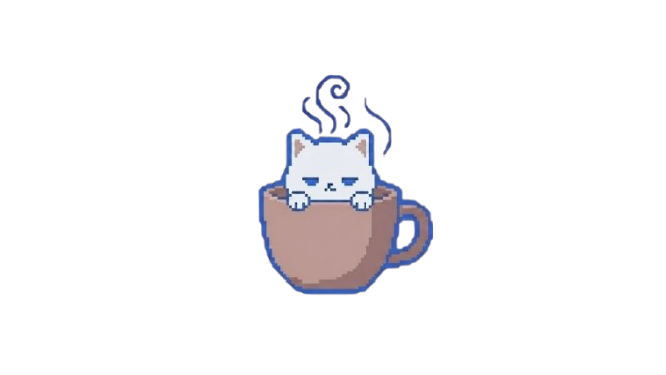
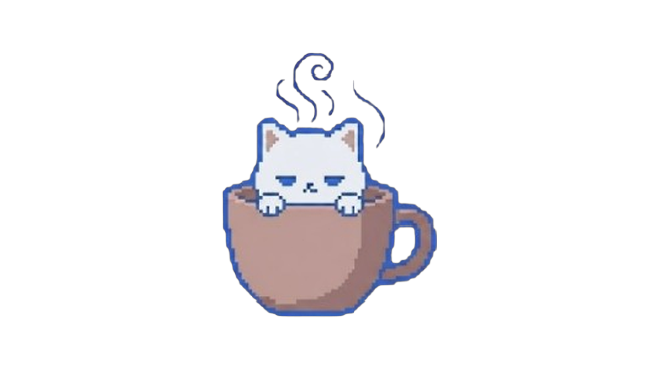
checkpoint: before sidebar toggle z-index/event delegation fix

Changed region(s): [[0.3303, 0.1173, 0.6607, 0.8507]]

diff --git a/scripts/SystemHealthReport/sample-report.html b/scripts/SystemHealthReport/sample-report.html
@@ -104,14 +104,18 @@ tbody tr:hover { background: rgba(255,255,255,0.03); }
 .theme-toggle {
     width: 40px; height: 40px; border-radius: 50%;
     background: var(--toolbar-bg); border: 2px solid var(--surface0);
-    color: var(--text); font-size: 22px; cursor: pointer;
-    line-height: 1; box-sizing: border-box;
+    color: var(--text); cursor: pointer;
+    box-sizing: border-box;
     flex-shrink: 0;
     display: flex; align-items: center; justify-content: center;
-    transition: background 0.3s, transform 0.2s;
     box-shadow: 0 2px 8px rgba(0,0,0,0.15);
+    transition: background 0.3s, transform 0.2s;
 }
 .theme-toggle:hover { transform: scale(1.1); }
+.theme-toggle .icon-moon { display: flex; align-items: center; justify-content: center; }
+.theme-toggle .icon-sun { display: none; align-items: center; justify-content: center; }
+[data-theme="latte"] .theme-toggle .icon-moon { display: none; }
+[data-theme="latte"] .theme-toggle .icon-sun { display: flex; }
 
 /* Sidebar */
 .sidebar {
@@ -119,17 +123,36 @@ tbody tr:hover { background: rgba(255,255,255,0.03); }
     width: 220px; background: color-mix(in srgb, var(--mantle) 95%, transparent);
     backdrop-filter: blur(10px);
     border-right: 1px solid var(--surface0);
-    padding: 0 0 24px;
+    padding: 0 0 56px;
     transform: translateX(-100%); transition: transform 0.35s cubic-bezier(0.4,0,0.2,1);
     overflow-y: auto;
 }
 .sidebar.open { transform: translateX(0); }
-.sidebar h3 {
-    position: sticky; top: 0; z-index: 1;
-    padding: 16px 16px 8px; margin: 0;
+.sidebar-header {
+    position: sticky; top: 0; z-index: 2;
+    display: flex; align-items: center;
+    padding: 0 8px 0 0;
     background: color-mix(in srgb, var(--mantle) 95%, transparent);
+    backdrop-filter: blur(10px);
+}
+.sidebar-header h3 {
+    flex: 1; padding: 16px 16px 8px; margin: 0;
     font-size: 12px; text-transform: uppercase; letter-spacing: 1px;
     color: var(--overlay0);
+}
+.sidebar-close {
+    width: 28px; height: 28px; border-radius: 50%;
+    border: none; background: transparent;
+    color: var(--overlay0); cursor: pointer;
+    display: flex; align-items: center; justify-content: center;
+    transition: background 0.2s, color 0.2s;
+    flex-shrink: 0;
+}
+.sidebar-close:hover {
+    background: var(--surface0); color: var(--text);
+}
+.sidebar-links {
+    padding: 0;
 }
 .sidebar a {
     display: block; padding: 8px 16px; border-radius: 6px;
@@ -142,8 +165,8 @@ tbody tr:hover { background: rgba(255,255,255,0.03); }
 .sidebar-toggle {
     width: 40px; height: 40px; border-radius: 50%;
     background: var(--toolbar-bg); border: 2px solid var(--surface0);
-    color: var(--text); font-size: 22px; cursor: pointer;
-    line-height: 1; box-sizing: border-box;
+    color: var(--text); cursor: pointer;
+    box-sizing: border-box;
     flex-shrink: 0;
     display: flex; align-items: center; justify-content: center;
     box-shadow: 0 2px 8px rgba(0,0,0,0.15);
@@ -178,7 +201,13 @@ tbody tr:hover { background: rgba(255,255,255,0.03); }
     <p class='intro-scroll'>&#9660; &#9660;</p>
 </div>
 <nav class="sidebar" id="sidebar">
-    <h3>Jump to</h3>
+    <div class="sidebar-header">
+        <h3>Jump to</h3>
+        <button class="sidebar-close" id="sidebarClose" aria-label="Close menu">
+            <svg viewBox="0 0 24 24" width="16" height="16"><line x1="18" y1="6" x2="6" y2="18" stroke="currentColor" stroke-width="2" stroke-linecap="round"/><line x1="6" y1="6" x2="18" y2="18" stroke="currentColor" stroke-width="2" stroke-linecap="round"/></svg>
+        </button>
+    </div>
+    <div class="sidebar-links">
     <a href='#sysinfo'>System Information</a>
     <a href='#cpu'>CPU</a>
     <a href='#gpu'>Graphics</a>
@@ -188,15 +217,25 @@ tbody tr:hover { background: rgba(255,255,255,0.03); }
     <a href='#processes'>Top Processes</a>
     <a href='#errors'>Recent Errors</a>
     <a href='#windows-update'>Windows Update</a>
+    </div>
     <div class="sidebar-fade"></div>
 </nav>
 <div class="header">
-<button class="sidebar-toggle" id="sidebarToggle" aria-label="Menu">☰</button>
+<button class="sidebar-toggle" id="sidebarToggle" aria-label="Menu">
+    <svg viewBox="0 0 24 24" width="22" height="22"><line x1="3" y1="6" x2="21" y2="6" stroke="currentColor" stroke-width="2" stroke-linecap="round"/><line x1="3" y1="12" x2="21" y2="12" stroke="currentColor" stroke-width="2" stroke-linecap="round"/><line x1="3" y1="18" x2="21" y2="18" stroke="currentColor" stroke-width="2" stroke-linecap="round"/></svg>
+</button>
 <div class="header-body">
 <h1>System Health Report</h1>
 <div class="subtitle">DESKTOP-SAMPLE &middot; 2026-07-06 16:30 &middot; Catppuccin Mocha</div>
 </div>
-<button class="theme-toggle" id="themeToggle" aria-label="Toggle theme">🌙</button>
+<button class="theme-toggle" id="themeToggle" aria-label="Toggle theme">
+    <span class="icon-moon">
+        <svg viewBox="0 0 24 24" width="22" height="22"><path d="M21 12.79A9 9 0 1 1 11.21 3 7 7 0 0 0 21 12.79z" fill="none" stroke="currentColor" stroke-width="2" stroke-linecap="round" stroke-linejoin="round"/></svg>
+    </span>
+    <span class="icon-sun">
+        <svg viewBox="0 0 24 24" width="22" height="22"><circle cx="12" cy="12" r="5" fill="none" stroke="currentColor" stroke-width="2" stroke-linecap="round" stroke-linejoin="round"/><line x1="12" y1="1" x2="12" y2="3" stroke="currentColor" stroke-width="2" stroke-linecap="round"/><line x1="12" y1="21" x2="12" y2="23" stroke="currentColor" stroke-width="2" stroke-linecap="round"/><line x1="4.22" y1="4.22" x2="5.64" y2="5.64" stroke="currentColor" stroke-width="2" stroke-linecap="round"/><line x1="18.36" y1="18.36" x2="19.78" y2="19.78" stroke="currentColor" stroke-width="2" stroke-linecap="round"/><line x1="1" y1="12" x2="3" y2="12" stroke="currentColor" stroke-width="2" stroke-linecap="round"/><line x1="21" y1="12" x2="23" y2="12" stroke="currentColor" stroke-width="2" stroke-linecap="round"/><line x1="4.22" y1="19.78" x2="5.64" y2="18.36" stroke="currentColor" stroke-width="2" stroke-linecap="round"/><line x1="18.36" y1="5.64" x2="19.78" y2="4.22" stroke="currentColor" stroke-width="2" stroke-linecap="round"/></svg>
+    </span>
+</button>
 </div>
 
 <div class="summary">
@@ -350,30 +389,33 @@ document.querySelectorAll('.bar-fill').forEach(bar => {
 const toggle = document.getElementById("themeToggle");
 const html = document.documentElement;
 const sub = document.querySelector('.subtitle');
-const themes = { mocha: '🌙', latte: '☀️' };
 const names = { mocha: 'Mocha', latte: 'Latte' };
 toggle.addEventListener("click", () => {
     const cur = html.getAttribute('data-theme');
     const next = cur === 'mocha' ? 'latte' : 'mocha';
     html.setAttribute('data-theme', next);
-    toggle.textContent = themes[next];
     if (sub) sub.textContent = sub.textContent.replace(/Mocha|Latte/, names[next]);
 });
 
 const sidebar = document.getElementById("sidebar");
 const sToggle = document.getElementById("sidebarToggle");
+const sClose = document.getElementById("sidebarClose");
+
+function closeSidebar() { sidebar.classList.remove("open"); }
 
 sToggle.addEventListener("click", () => {
     sidebar.classList.toggle("open");
 });
 
+sClose.addEventListener("click", closeSidebar);
+
 sidebar.querySelectorAll('a').forEach(a => {
-    a.addEventListener("click", () => sidebar.classList.remove("open"));
+    a.addEventListener("click", closeSidebar);
 });
 
 document.addEventListener("click", (e) => {
     if (!sidebar.contains(e.target) && e.target !== sToggle) {
-        sidebar.classList.remove("open");
+        closeSidebar();
     }
 });
 </script>